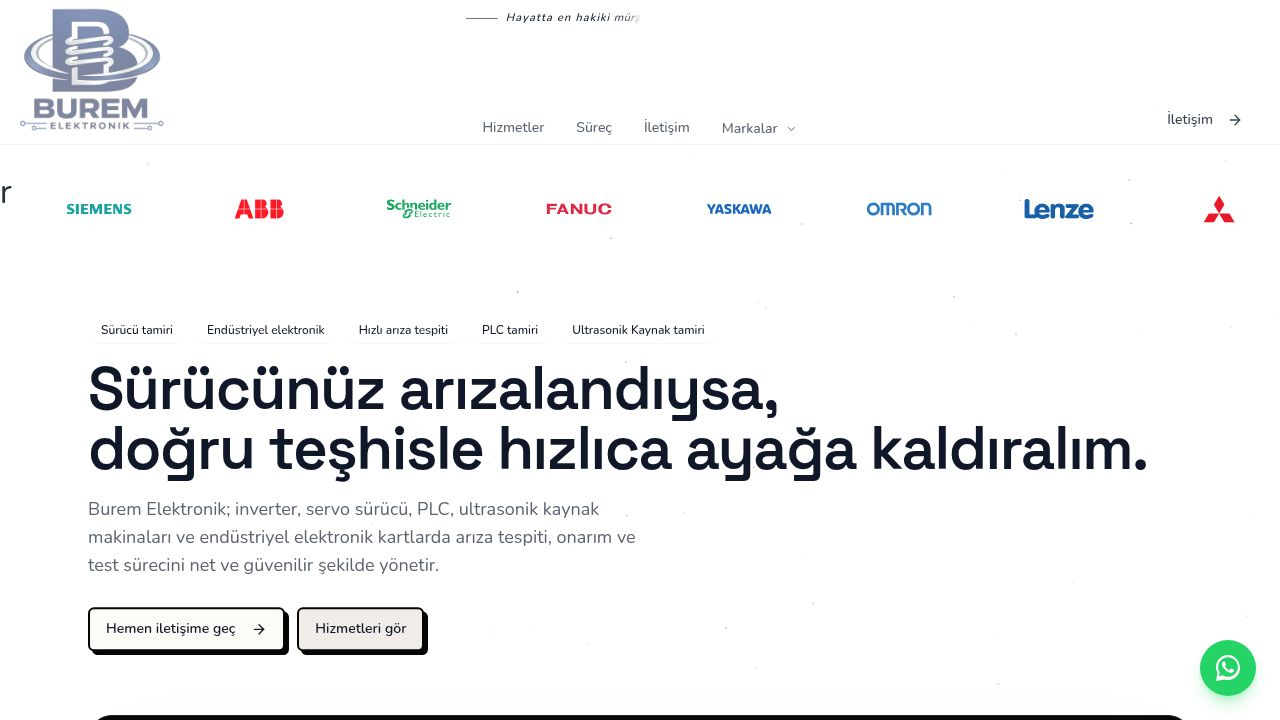
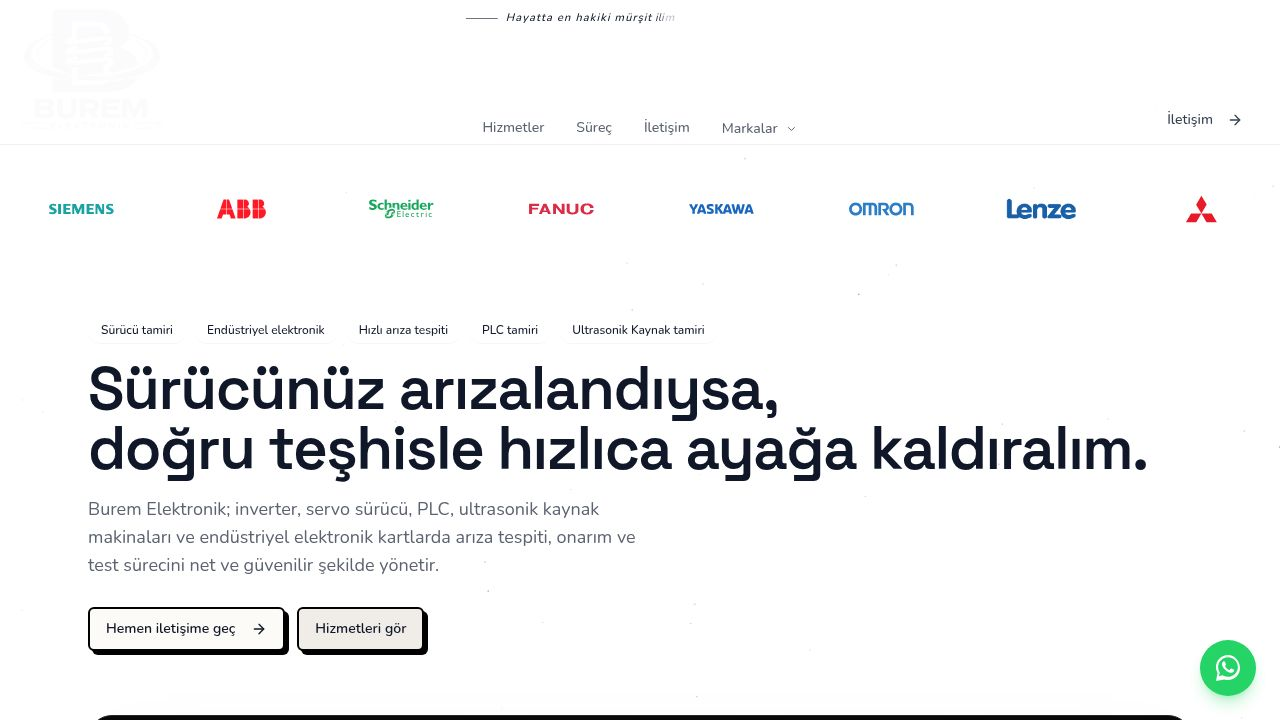
Remove decorative blurs from card slider and improve page description
Remove ProgressiveBlur components from the InfiniteSlider component in home.tsx and update the og:description meta tag in index.html.

Replit-Commit-Author: Agent
Replit-Commit-Session-Id: 1d4f6d1b-2f0b-4a17-94cd-53478abaf999
Replit-Commit-Checkpoint-Type: full_checkpoint
Replit-Commit-Event-Id: c5741dd7-afbd-4a68-9f8b-ca14508f6be1
Replit-Commit-Screenshot-Url: https://storage.googleapis.com/screenshot-production-us-central1/220fef12-6025-4ca4-92d5-d8870d5c7179/1d4f6d1b-2f0b-4a17-94cd-53478abaf999/mZoYUhr
Replit-Helium-Checkpoint-Created: true

diff --git a/client/index.html b/client/index.html
@@ -6,7 +6,7 @@
 
     <meta name="description" content="Burem Elektronik; inverter, servo sürücü, PLC, ultrasonik kaynak makinaları ve endüstriyel elektronik kartlarda profesyonel arıza tespiti, onarım ve test hizmeti sunar. Hızlı dönüş, garantili sonuç." />
     <meta property="og:title" content="Burem Elektronik" />
-    <meta property="og:description" content="Elektronik sürücü tamiri ve endüstriyel elektronik servis. Hızlı arıza tespiti, güvenilir onarım ve test." />
+    <meta property="og:description" content="Elektronik sürücü tamiri, inverter, servo sürücü, PLC, ultrasonik kaynak makinaları ve endüstriyel elektronik servis. Hızlı arıza tespiti, güvenilir onarım ve test." />
     <meta property="og:type" content="website" />
     <meta property="og:image" content="https://replit.com/public/images/opengraph.png" />
     <meta name="twitter:card" content="summary_large_image" />

diff --git a/client/src/pages/home.tsx b/client/src/pages/home.tsx
@@ -477,16 +477,6 @@ function AnimatedServicesSection() {
             </div>
           ))}
         </InfiniteSlider>
-        <ProgressiveBlur
-          className="pointer-events-none absolute top-0 left-0 h-full w-[180px]"
-          direction="left"
-          blurIntensity={0.8}
-        />
-        <ProgressiveBlur
-          className="pointer-events-none absolute top-0 right-0 h-full w-[180px]"
-          direction="right"
-          blurIntensity={0.8}
-        />
       </div>
     </section>
   );
